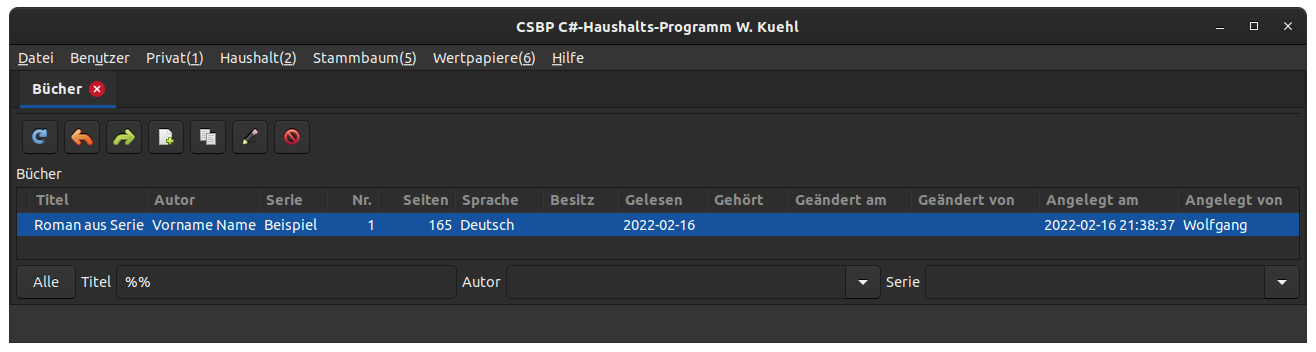
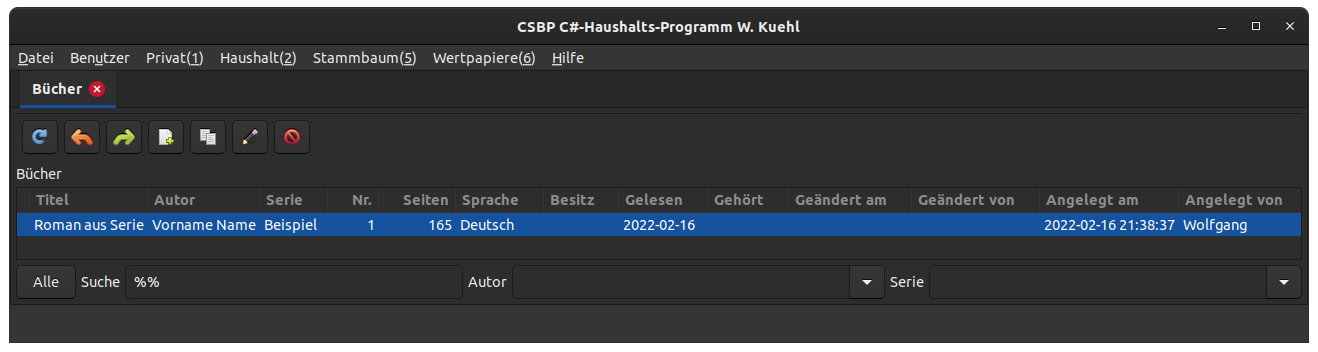
Help for search fields optimized.

diff --git a/CSBP/Services/Repositories/HhKontoRep.cs b/CSBP/Services/Repositories/HhKontoRep.cs
@@ -47,7 +47,8 @@ namespace CSBP.Services.Repositories
       if (dge.HasValue)
         l = l.Where(a => a.Gueltig_Bis == null || a.Gueltig_Bis >= dge.Value);
       if (Functions.IsLike(text))
-        l = l.Where(a => EF.Functions.Like(a.Uid, text) || EF.Functions.Like(a.Name, text));
+        l = l.Where(a => EF.Functions.Like(a.Uid, text) || EF.Functions.Like(a.Name, text)
+          || EF.Functions.Like(a.Art, text) || EF.Functions.Like(a.Kz, text));
       return l.OrderBy(a => a.Mandant_Nr).ThenBy(a => a.Name).ThenBy(a => a.Uid).ToList();
     }
 

diff --git a/CSBP/Forms/HH/HH210Account.cs b/CSBP/Forms/HH/HH210Account.cs
@@ -210,6 +210,7 @@ namespace CSBP.Forms.HH
           betrag.Text = Functions.ToString(k.EBetrag, 2);
           angelegt.Text = k.FormatDateOf(k.Angelegt_Am, k.Angelegt_Von);
           geaendert.Text = k.FormatDateOf(k.Geaendert_Am, k.Geaendert_Von);
+          // TODO Anzeige des Zeitraums von vorhandenen Buchungen.
         }
         nr.IsEditable = false;
         bezeichnung.IsEditable = !loeschen;
